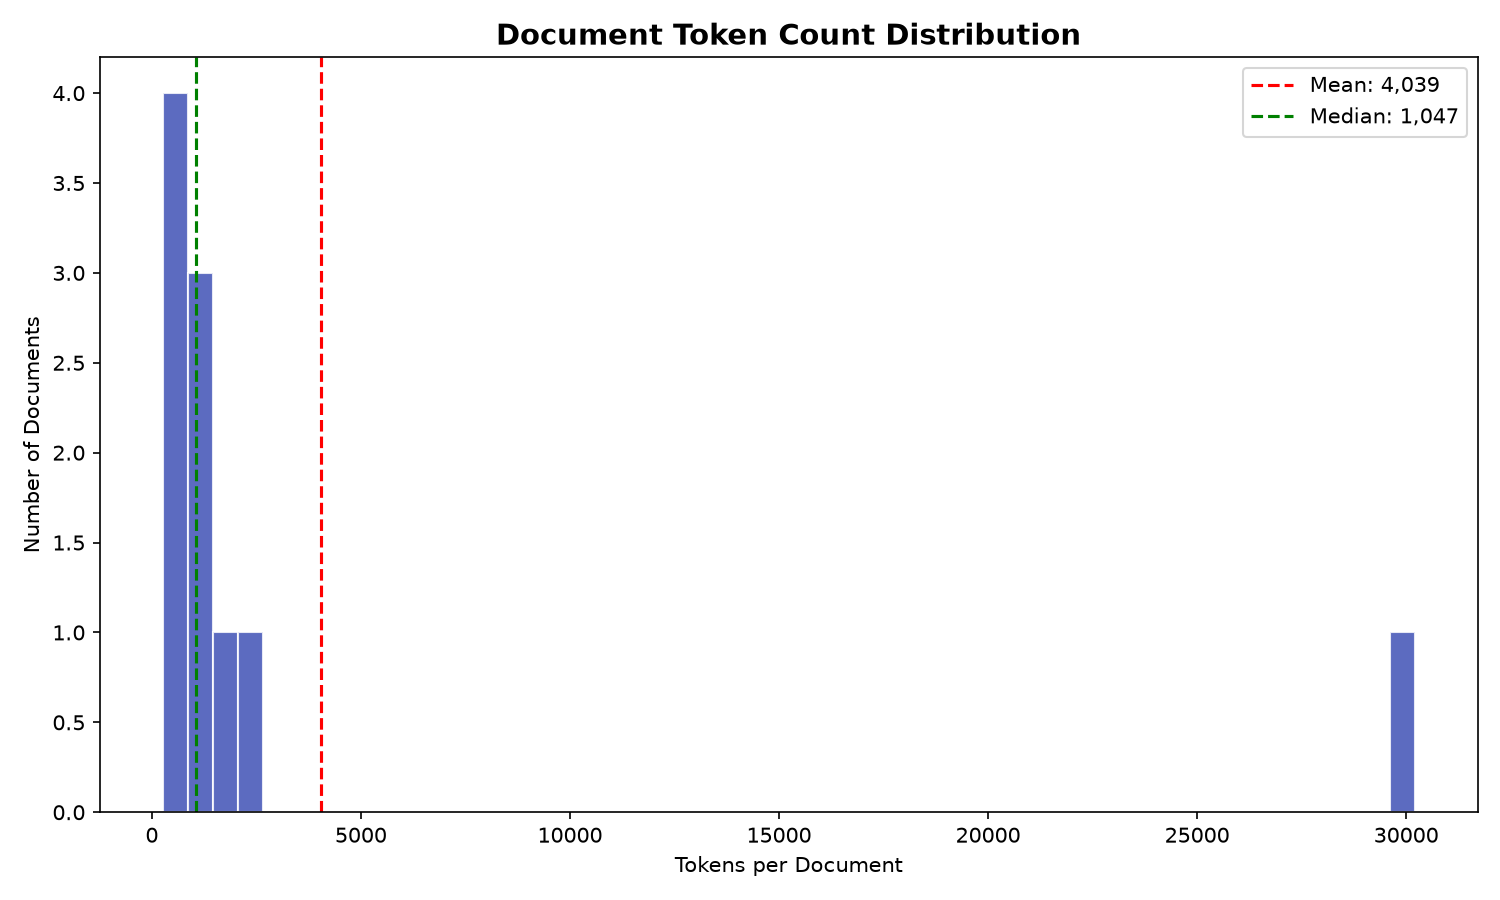
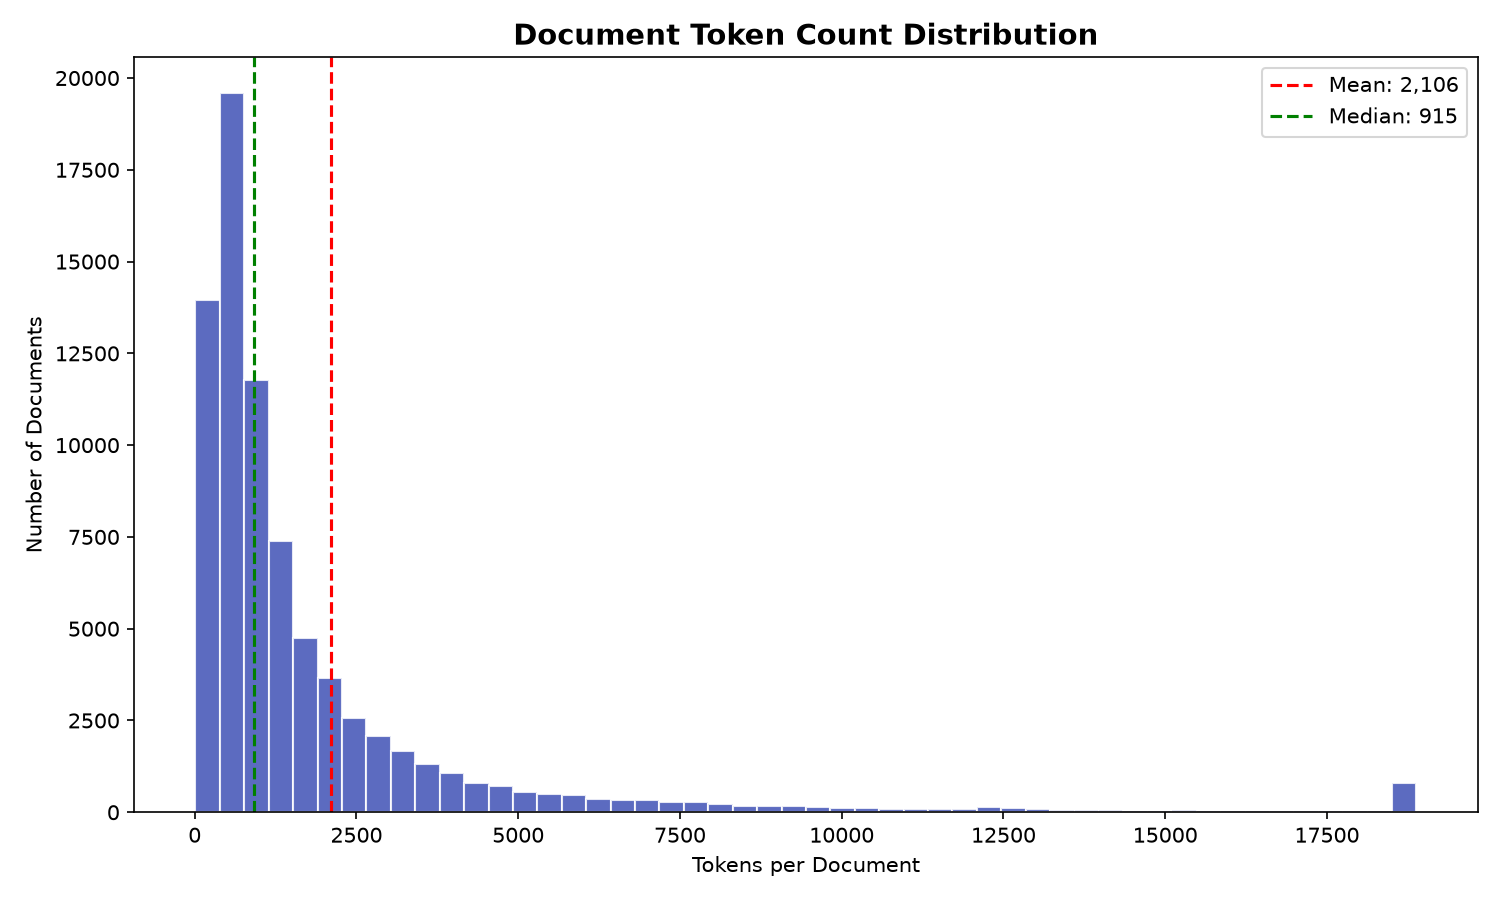
update

diff --git a/outputs/phase2/tokenization_stats.md b/outputs/phase2/tokenization_stats.md
@@ -1,28 +1,33 @@
 # Phase 2 — Tokenization Statistics
 
-**Documents tokenized:** 10
-**Total tokens:** 40,390
-**Average tokens/doc:** 4,039.0
-**Median tokens/doc:** 1,047
-**Total vocabulary size:** 3,737
+**Documents tokenized:** 77,565
+**Total tokens:** 163,335,538
+**Average tokens/doc:** 2,105.8
+**Median tokens/doc:** 915
+**Total vocabulary size:** 1,895,749
 
 ## Per-Zone Statistics
 
 | Zone | Total Tokens | Docs w/ Tokens | Avg/Doc | Vocab Size |
 |------|-------------|----------------|---------|------------|
-| Title | 55 | 10 | 5.5 | 51 |
-| Heading | 1,451 | 10 | 145.1 | 485 |
-| Body | 20,526 | 10 | 2,052.6 | 3,032 |
-| Code | 1,716 | 8 | 214.5 | 847 |
-| Section | 16,642 | 10 | 1,664.2 | 2,598 |
+| Title | 586,040 | 77,531 | 7.6 | 42,367 |
+| Heading | 2,981,463 | 76,225 | 39.1 | 136,703 |
+| Body | 69,547,100 | 77,563 | 896.7 | 1,288,877 |
+| Code | 22,419,003 | 49,831 | 449.9 | 890,231 |
+| Section | 67,801,932 | 76,880 | 881.9 | 794,320 |
 
 ## Per-Category Statistics
 
 | Category | Docs | Total Tokens | Avg Tokens/Doc |
 |----------|------|-------------|----------------|
-| database-search | 2 | 3,298 | 1,649.0 |
-| framework | 2 | 1,271 | 635.5 |
-| ml-infrastructure | 1 | 1,812 | 1,812.0 |
-| os-networking-web | 1 | 30,208 | 30,208.0 |
-| programming-language | 3 | 2,754 | 918.0 |
-| security | 1 | 1,047 | 1,047.0 |
+| cloud | 12217 | 25,023,480 | 2,048.3 |
+| containers-orchestration | 2836 | 6,988,780 | 2,464.3 |
+| database-search | 17451 | 28,077,311 | 1,608.9 |
+| devops-infrastructure | 10621 | 19,479,448 | 1,834.1 |
+| distributed-data | 6303 | 11,208,058 | 1,778.2 |
+| framework | 6039 | 15,299,841 | 2,533.5 |
+| ml-infrastructure | 7407 | 20,251,114 | 2,734.1 |
+| observability | 3236 | 5,911,779 | 1,826.9 |
+| os-networking-web | 7608 | 21,784,347 | 2,863.3 |
+| programming-language | 3785 | 8,864,763 | 2,342.1 |
+| security | 62 | 446,617 | 7,203.5 |
